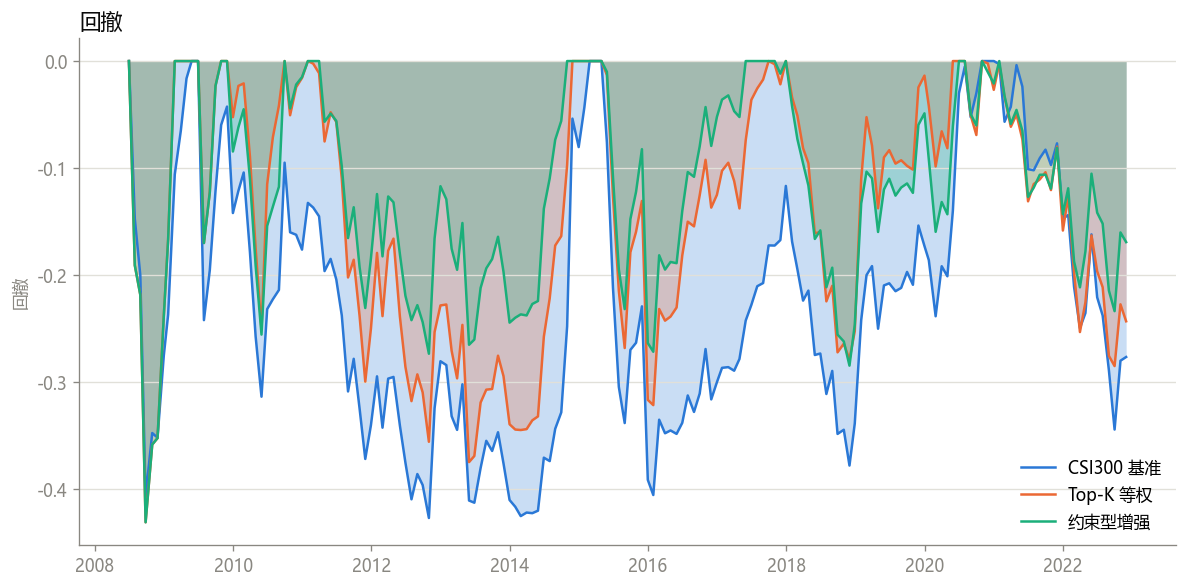
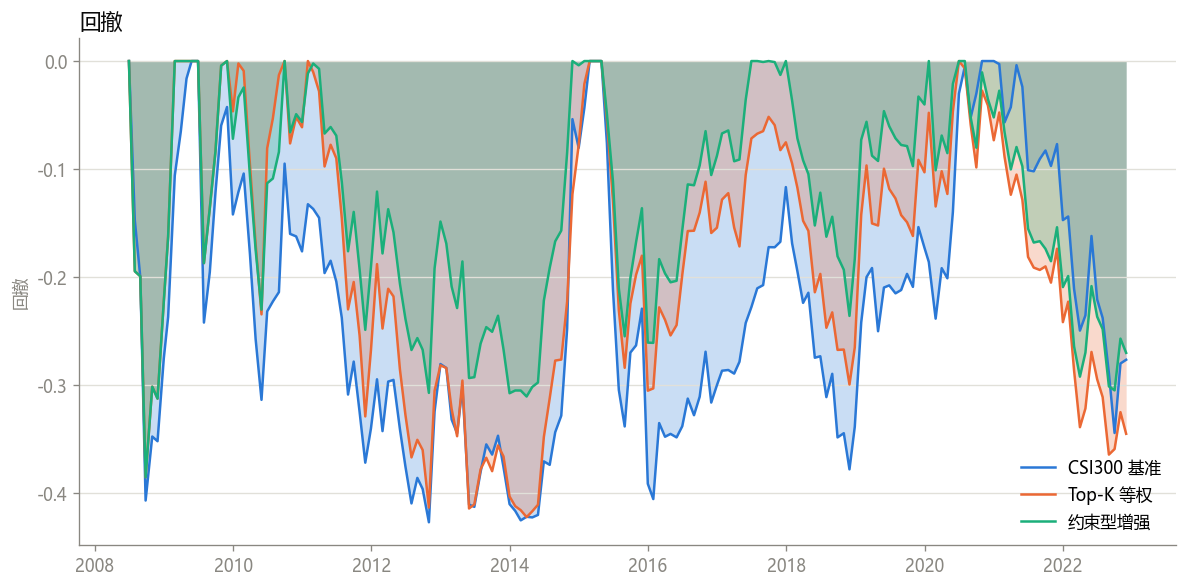
attribute + future function corr

Changed region(s): [[0.0312, 0.092, 0.9663, 0.8893], [0.6858, 0.7359, 0.7169, 0.7666], [0.2805, 0.7359, 0.3117, 0.7666]]

diff --git a/src/attribution/attribution.py b/src/attribution/attribution.py
@@ -1,0 +1,107 @@
+# -*- coding: utf-8 -*-
+"""P7 收益归因 + 稳健性。
+
+1. 年度收益分解（基准 / Top-K / 增强 各年收益与超额）；
+2. 风格暴露（Top-K 组合相对全样本的因子偏移，即押注了哪些因子）；
+3. 稳健性（不同 Top-K 数量 K 的净收益）。
+
+输出 data/processed/attribution_*.parquet。
+"""
+
+import numpy as np
+import pandas as pd
+
+PROC = "data/processed"
+
+
+def annual_returns():
+    df = pd.read_parquet(PROC + "/backtest_net.parquet")
+    df.index = pd.to_datetime(df.index)
+    cols = ["benchmark", "topk_net", "enhanced_net"]
+    annual = df[cols].groupby(df.index.year).apply(lambda g: (1 + g).prod() - 1)
+    annual["excess_topk"] = annual["topk_net"] - annual["benchmark"]
+    annual["excess_enhanced"] = annual["enhanced_net"] - annual["benchmark"]
+    annual.to_parquet(PROC + "/attribution_annual.parquet")
+    print("=== 年度收益（%）===")
+    print((annual * 100).round(2).to_string())
+    print("\n正超额年数: Top-K %d/%d，增强 %d/%d" % (
+        (annual.excess_topk > 0).sum(), len(annual),
+        (annual.excess_enhanced > 0).sum(), len(annual)))
+    return annual
+
+
+def factor_tilt(K=50):
+    alpha = pd.read_parquet(PROC + "/alpha_panel.parquet")
+    fp = pd.read_parquet(PROC + "/factor_processed.parquet")
+    close = pd.read_parquet(PROC + "/close.parquet")
+    s = pd.Series(close.index, index=close.index)
+    dates = [pd.Timestamp(d) for d in s.groupby(close.index.strftime("%Y-%m")).max().values]
+
+    tilts = []
+    for d in dates:
+        a = alpha[alpha["date"] == d].set_index("code")["equal"].dropna()
+        if len(a) < K:
+            continue
+        top = set(a.nlargest(K).index)
+        f = fp[fp["date"] == d].pivot(index="code", columns="factor", values="value")
+        common = f.index.intersection(a.index)
+        if len(common) < K:
+            continue
+        f_c = f.loc[common]
+        in_top = f_c.index.isin(top)
+        tilt = f_c[in_top].mean() - f_c.mean()
+        tilt.name = d
+        tilts.append(tilt)
+    tilt_df = pd.DataFrame(tilts)
+    tilt_df.to_parquet(PROC + "/attribution_tilt.parquet")
+    print("\n=== 风格暴露（Top-K 组合相对全样本的因子偏移，z-score 单位）===")
+    print(tilt_df.mean().round(3).to_string())
+    return tilt_df
+
+
+def robustness(ks=(30, 50, 80)):
+    alpha = pd.read_parquet(PROC + "/alpha_panel.parquet")
+    uni = pd.read_parquet(PROC + "/universe_csi300.parquet")
+    close = pd.read_parquet(PROC + "/close.parquet")
+    s = pd.Series(close.index, index=close.index)
+    dates = [pd.Timestamp(d) for d in s.groupby(close.index.strftime("%Y-%m")).max().values]
+    close_dates = close.loc[dates]
+    close_t1 = close.shift(-1).loc[dates]  # T+1 收盘价（t+1 成交，去收盘价前视）
+    fwd_ret = close_dates.shift(-1) / close_t1 - 1
+    uni_map = uni.groupby("ym")["code"].apply(set).to_dict()
+    ROUND_TRIP = 0.0035
+
+    print("\n=== 稳健性：不同 Top-K 数量（含成本）===")
+    for K in ks:
+        w_prev = None
+        nets = []
+        turns = []
+        for d in dates:
+            ym = d.strftime("%Y-%m")
+            members = uni_map.get(ym, set())
+            a = alpha[alpha["date"] == d].set_index("code")["equal"].dropna()
+            r = fwd_ret.loc[d].dropna()
+            common = sorted(set(a.index) & set(r.index) & members)
+            if len(common) < K:
+                continue
+            top = a.loc[common].nlargest(K).index
+            w = np.zeros(len(common))
+            w[[i for i, c in enumerate(common) if c in top]] = 1.0 / K
+            w_prev_arr = np.zeros(len(common))
+            if w_prev is not None:
+                for i, c in enumerate(common):
+                    w_prev_arr[i] = w_prev.get(c, 0.0)
+            turn = 0.5 * np.abs(w - w_prev_arr).sum()
+            nets.append(float((r.loc[common].values * w).sum()) - turn * ROUND_TRIP)
+            turns.append(turn)
+            w_prev = {c: w[i] for i, c in enumerate(common)}
+        r = pd.Series(nets)
+        ann = (1 + r).prod() ** (12 / len(r)) - 1
+        shp = ann / (r.std() * np.sqrt(12))
+        print("K=%-3d 年化%.2f%%  Sharpe %.3f  平均换手%.1f%%" % (K, ann * 100, shp, np.mean(turns) * 100))
+
+
+if __name__ == "__main__":
+    annual_returns()
+    factor_tilt()
+    robustness()

diff --git a/src/backtest/backtest.py b/src/backtest/backtest.py
@@ -64,7 +64,9 @@ def run_backtest(K=50):
     ind = pd.read_parquet(PROC + "/industry_map.parquet")["industry_sw_l1"]
 
     dates = rebalance_dates(close)
-    fwd_ret = close.loc[dates].pct_change(fill_method=None).shift(-1)
+    close_dates = close.loc[dates]
+    close_t1 = close.shift(-1).loc[dates]  # T+1 收盘价（t+1 成交，去收盘价前视）
+    fwd_ret = close_dates.shift(-1) / close_t1 - 1
     uni_map = uni.groupby("ym")["code"].apply(set).to_dict()
 
     idx = pd.read_csv(RAW + "/index_daily.csv")

diff --git a/src/portfolio/alpha.py b/src/portfolio/alpha.py
@@ -64,7 +64,9 @@ def combine():
     # 检验合成 alpha 的 RankIC
     close = pd.read_parquet(PROC + "/close.parquet")
     dates = rebalance_dates(close)
-    fwd_ret = close.loc[dates].pct_change(fill_method=None).shift(-1)
+    close_dates = close.loc[dates]
+    close_t1 = close.shift(-1).loc[dates]  # T+1 收盘价（t+1 成交，去收盘价前视）
+    fwd_ret = close_dates.shift(-1) / close_t1 - 1
 
     print("\n合成 alpha 的 RankIC:")
     for name in ["equal", "ic", "risk"]:

diff --git a/src/portfolio/portfolio.py b/src/portfolio/portfolio.py
@@ -36,7 +36,9 @@ def build_portfolios(K=50):
     close = pd.read_parquet(PROC + "/close.parquet")
 
     dates = rebalance_dates(close)
-    fwd_ret = close.loc[dates].pct_change(fill_method=None).shift(-1)
+    close_dates = close.loc[dates]
+    close_t1 = close.shift(-1).loc[dates]  # T+1 收盘价（t+1 成交，去收盘价前视）
+    fwd_ret = close_dates.shift(-1) / close_t1 - 1
     bench_ret = _benchmark_ret(dates)
     uni_map = uni.groupby("ym")["code"].apply(set).to_dict()
 

diff --git a/src/portfolio/optimize.py b/src/portfolio/optimize.py
@@ -59,7 +59,9 @@ def run_enhancement():
     ind = pd.read_parquet(PROC + "/industry_map.parquet")["industry_sw_l1"]
 
     dates = rebalance_dates(close)
-    fwd_ret = close.loc[dates].pct_change(fill_method=None).shift(-1)
+    close_dates = close.loc[dates]
+    close_t1 = close.shift(-1).loc[dates]  # T+1 收盘价（t+1 成交，去收盘价前视）
+    fwd_ret = close_dates.shift(-1) / close_t1 - 1
     uni_map = uni.groupby("ym")["code"].apply(set).to_dict()
 
     w_prev = None

diff --git a/src/factors/grouping_test.py b/src/factors/grouping_test.py
@@ -25,7 +25,8 @@ def group_returns():
     close = pd.read_parquet(PROC + "/close.parquet")
     dates = rebalance_dates(close)
     close_dates = close.loc[dates]
-    fwd_ret = close_dates.pct_change(fill_method=None).shift(-1)
+    close_t1 = close.shift(-1).loc[dates]  # T+1 收盘价（t+1 成交，去收盘价前视）
+    fwd_ret = close_dates.shift(-1) / close_t1 - 1
 
     rows = []
     for factor, grp in fp.groupby("factor"):

diff --git a/src/factors/ic_test.py b/src/factors/ic_test.py
@@ -27,7 +27,8 @@ def compute_ic():
 
     dates = rebalance_dates(close)
     close_dates = close.loc[dates]
-    fwd_ret = close_dates.pct_change(fill_method=None).shift(-1)  # 前向1月收益
+    close_t1 = close.shift(-1).loc[dates]  # T+1 收盘价（t+1 成交，去收盘价前视）
+    fwd_ret = close_dates.shift(-1) / close_t1 - 1  # t+1 成交前向收益
 
     rows = []
     for factor, grp in fp.groupby("factor"):
